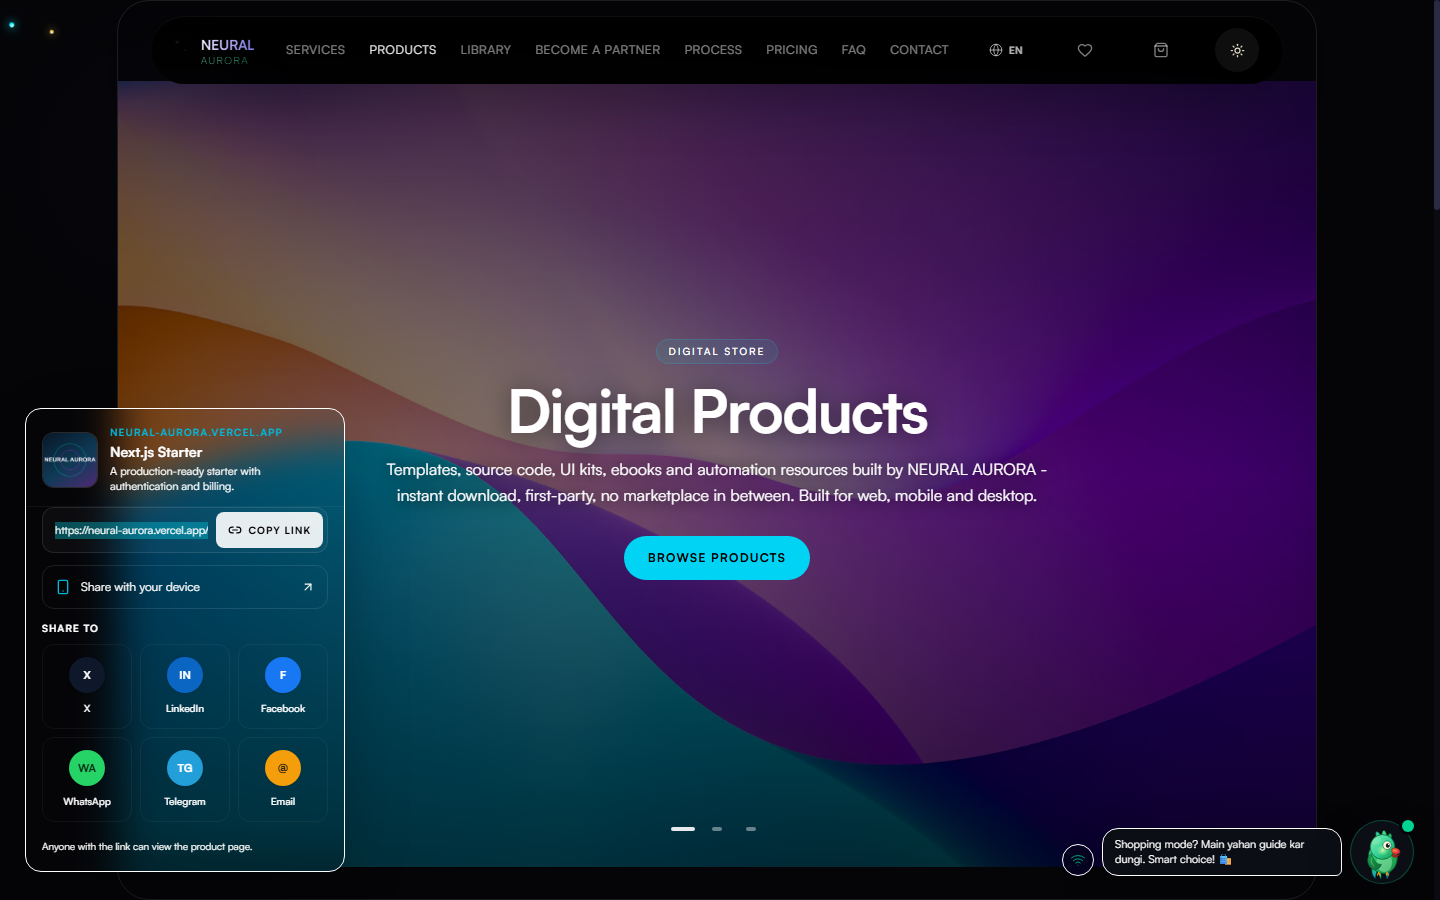
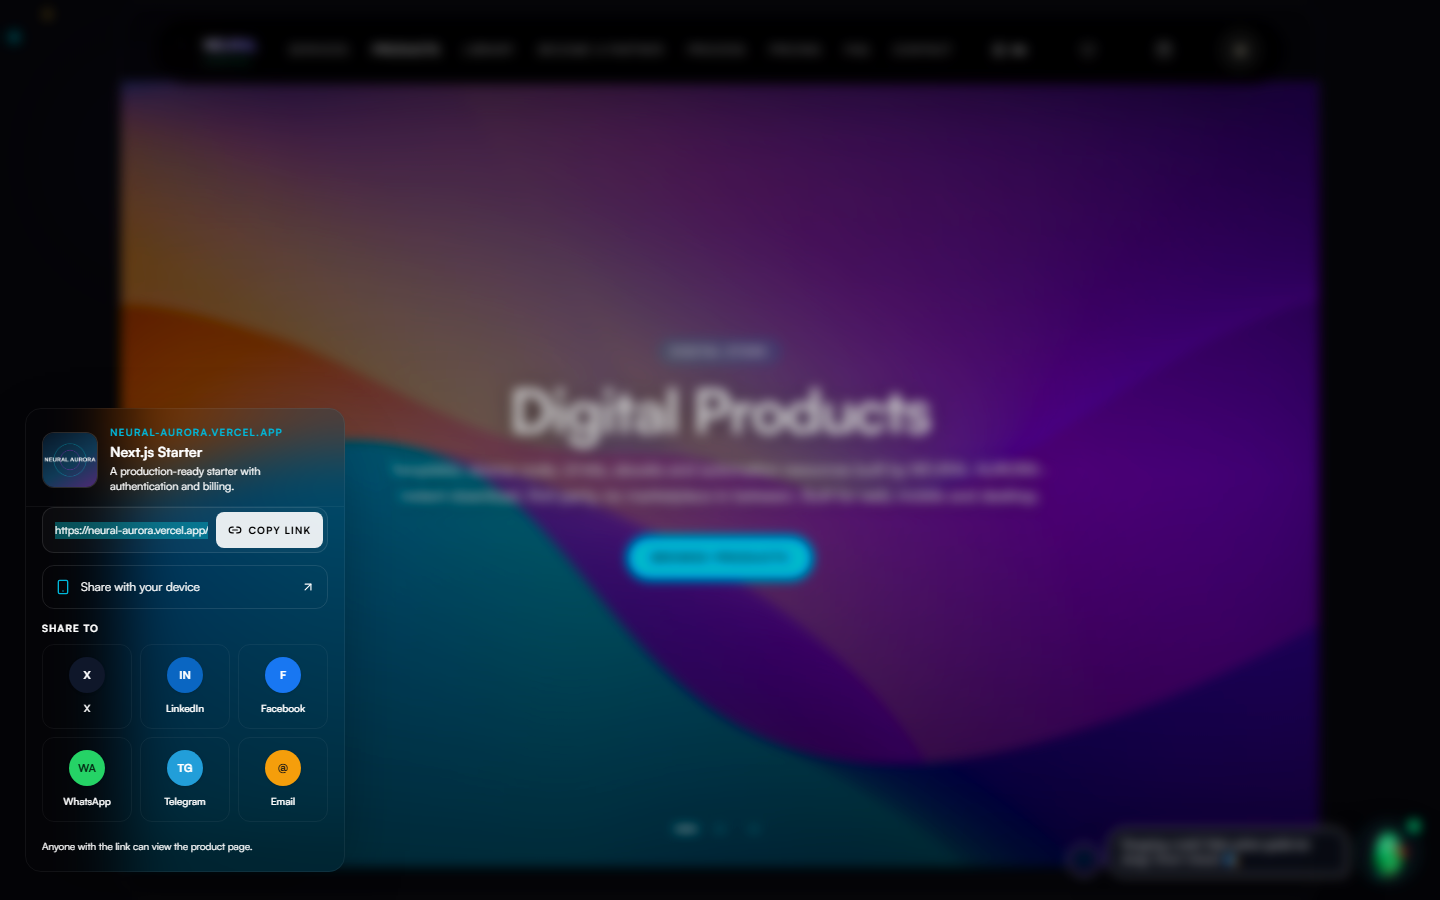
Fix share backdrop blur over neural aurora

diff --git a/src/components/offerings/ShareMenu.jsx b/src/components/offerings/ShareMenu.jsx
@@ -20,6 +20,10 @@ const PANEL_WIDTH = 320
 const PANEL_HEIGHT = 480
 const MOBILE_QUERY = '(max-width: 640px)'
 
+// The site-wide neural cursor/canvas overlay sits at z-index 200000. Share
+// surfaces must live above it, otherwise the aurora draws over the scrim and
+// the backdrop blur never appears to work.
+
 export default function ShareMenu({ slug, title, description = '', image = '', className = '' }) {
   const { t } = useTranslation()
   const { toast } = useToast()
@@ -133,13 +137,13 @@ export default function ShareMenu({ slug, title, description = '', image = '', c
   }, [open, isMobile])
 
   useEffect(() => {
-    if (!open || !isMobile) return undefined
+    if (!open) return undefined
     const previousOverflow = document.body.style.overflow
     document.body.style.overflow = 'hidden'
     return () => {
       document.body.style.overflow = previousOverflow
     }
-  }, [open, isMobile])
+  }, [open])
 
   useEffect(
     () => () => {
@@ -230,22 +234,23 @@ export default function ShareMenu({ slug, title, description = '', image = '', c
           <AnimatePresence>
             {open && (
               <>
-                {isMobile && (
-                  <motion.div
-                    key="share-scrim"
-                    {...scrimMotion}
-                    className="fixed inset-0 z-[99989] bg-black/50 backdrop-blur-[2px]"
-                    aria-hidden="true"
-                    onClick={close}
-                  />
-                )}
+                <motion.div
+                  key="share-scrim"
+                  {...scrimMotion}
+                  data-share-scrim
+                  className={`fixed inset-0 z-[200001] backdrop-saturate-150 ${
+                    isMobile ? 'bg-black/55 backdrop-blur-[10px]' : 'bg-black/20 backdrop-blur-[6px]'
+                  }`}
+                  aria-hidden="true"
+                  onClick={close}
+                />
 
                 <motion.div
                   key="share-panel"
                   ref={panelRef}
                   {...panelMotion}
                   role="dialog"
-                  aria-modal={isMobile ? 'true' : undefined}
+                  aria-modal="true"
                   aria-label={t('store.shareProduct')}
                   style={
                     isMobile
@@ -259,8 +264,8 @@ export default function ShareMenu({ slug, title, description = '', image = '', c
                   }
                   className={
                     isMobile
-                      ? 'glass-panel fixed inset-x-0 bottom-0 z-[99990] max-h-[88svh] overflow-y-auto rounded-t-2xl border-t px-4 pb-[max(1rem,env(safe-area-inset-bottom))] pt-3 shadow-2xl'
-                      : 'glass-panel z-[99990] overflow-hidden rounded-2xl border shadow-[0_24px_70px_-20px_rgba(0,0,0,0.45)]'
+                      ? 'glass-panel-strong fixed inset-x-0 bottom-0 z-[200002] max-h-[88svh] overflow-y-auto rounded-t-2xl border-t px-4 pb-[max(1rem,env(safe-area-inset-bottom))] pt-3 shadow-2xl'
+                      : 'glass-panel-strong z-[200002] overflow-hidden rounded-2xl border shadow-[0_24px_70px_-20px_rgba(0,0,0,0.45)]'
                   }
                 >
                   {isMobile && (

diff --git a/src/context/ToastContext.jsx b/src/context/ToastContext.jsx
@@ -92,7 +92,7 @@ export function ToastProvider({ children }) {
       {children}
 
       {/* Toast Notification Container */}
-      <div className="fixed top-5 right-5 z-[99999] flex flex-col gap-2.5 pointer-events-none max-w-sm w-full px-4 sm:px-0">
+      <div className="fixed top-5 right-5 z-[200003] flex flex-col gap-2.5 pointer-events-none max-w-sm w-full px-4 sm:px-0">
         <AnimatePresence>
           {toasts.map((t) => (
             <motion.div
@@ -138,7 +138,7 @@ export function ToastProvider({ children }) {
       {/* Confirm Dialog Modal */}
       <AnimatePresence>
         {confirmState.isOpen && (
-          <div className="fixed inset-0 z-[100000] flex items-center justify-center p-4">
+          <div className="fixed inset-0 z-[200004] flex items-center justify-center p-4">
             {/* Backdrop */}
             <motion.div
               initial={{ opacity: 0 }}
